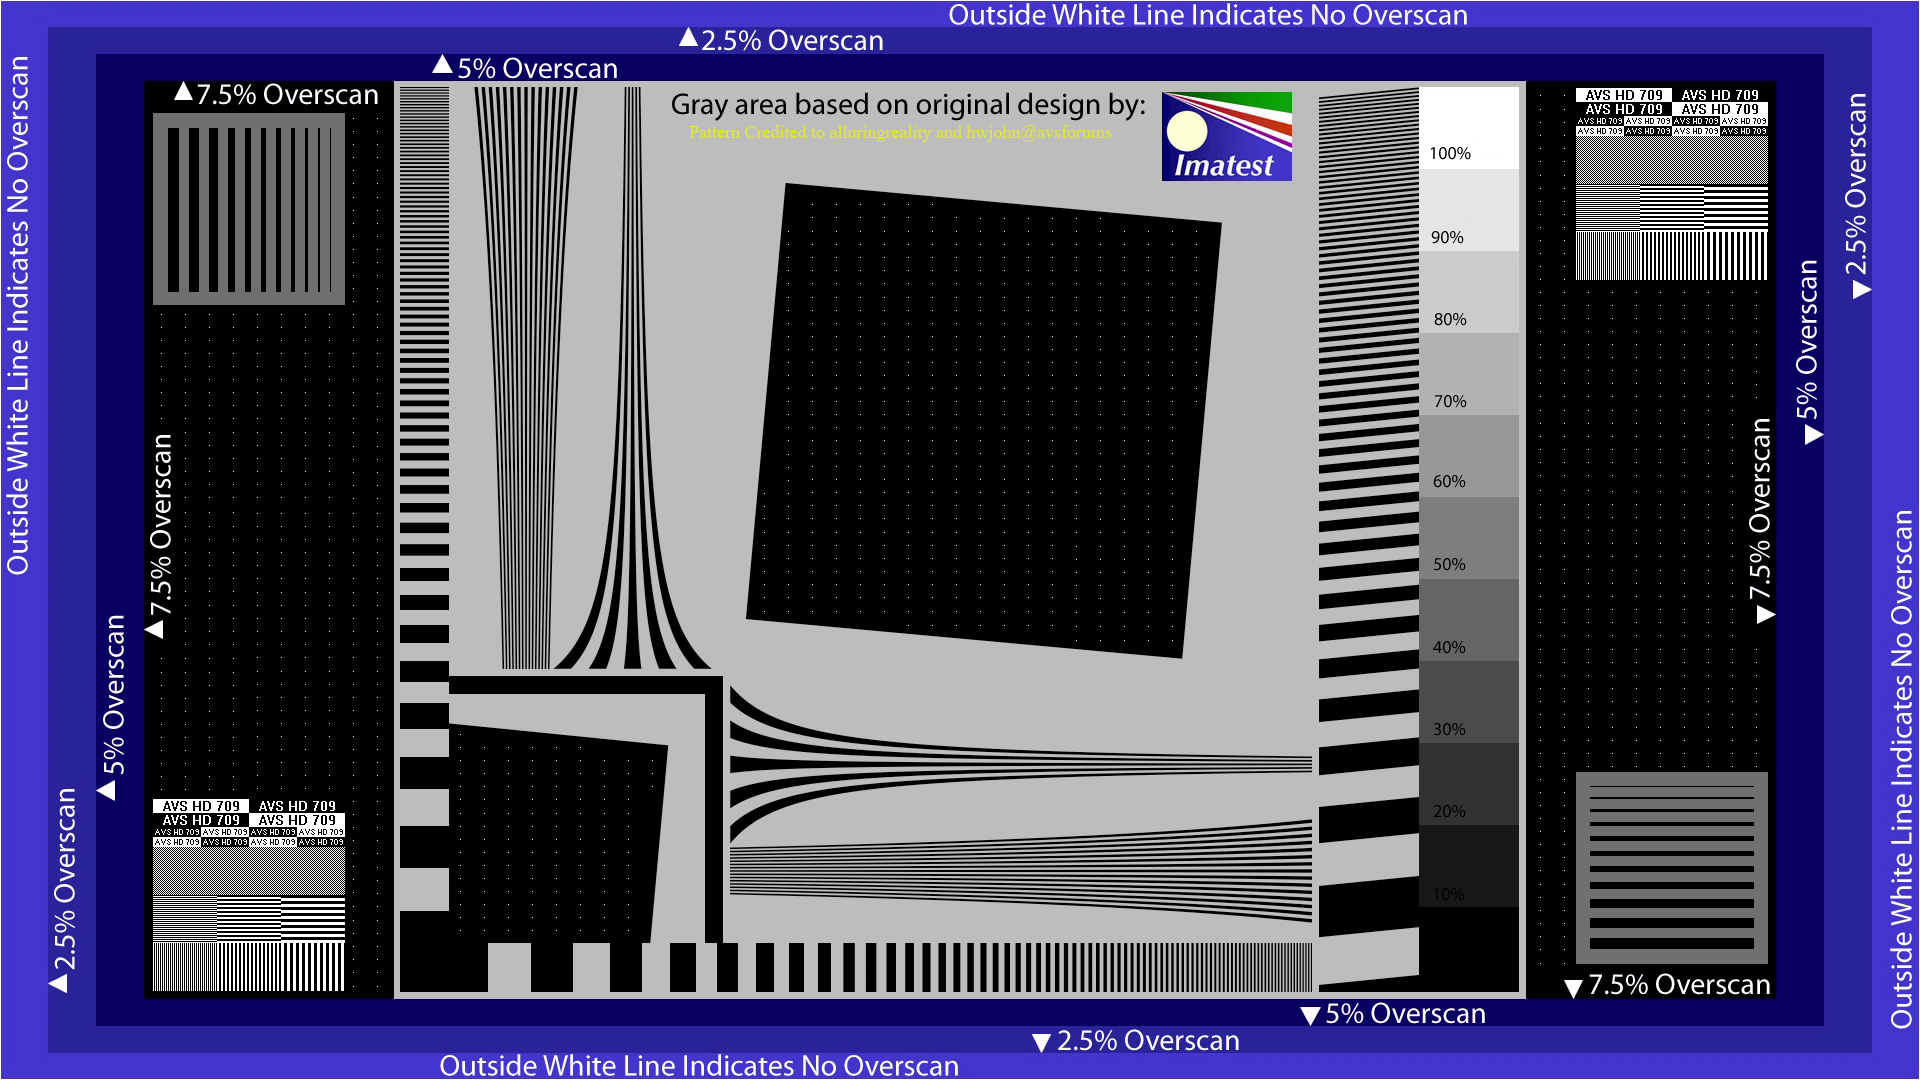
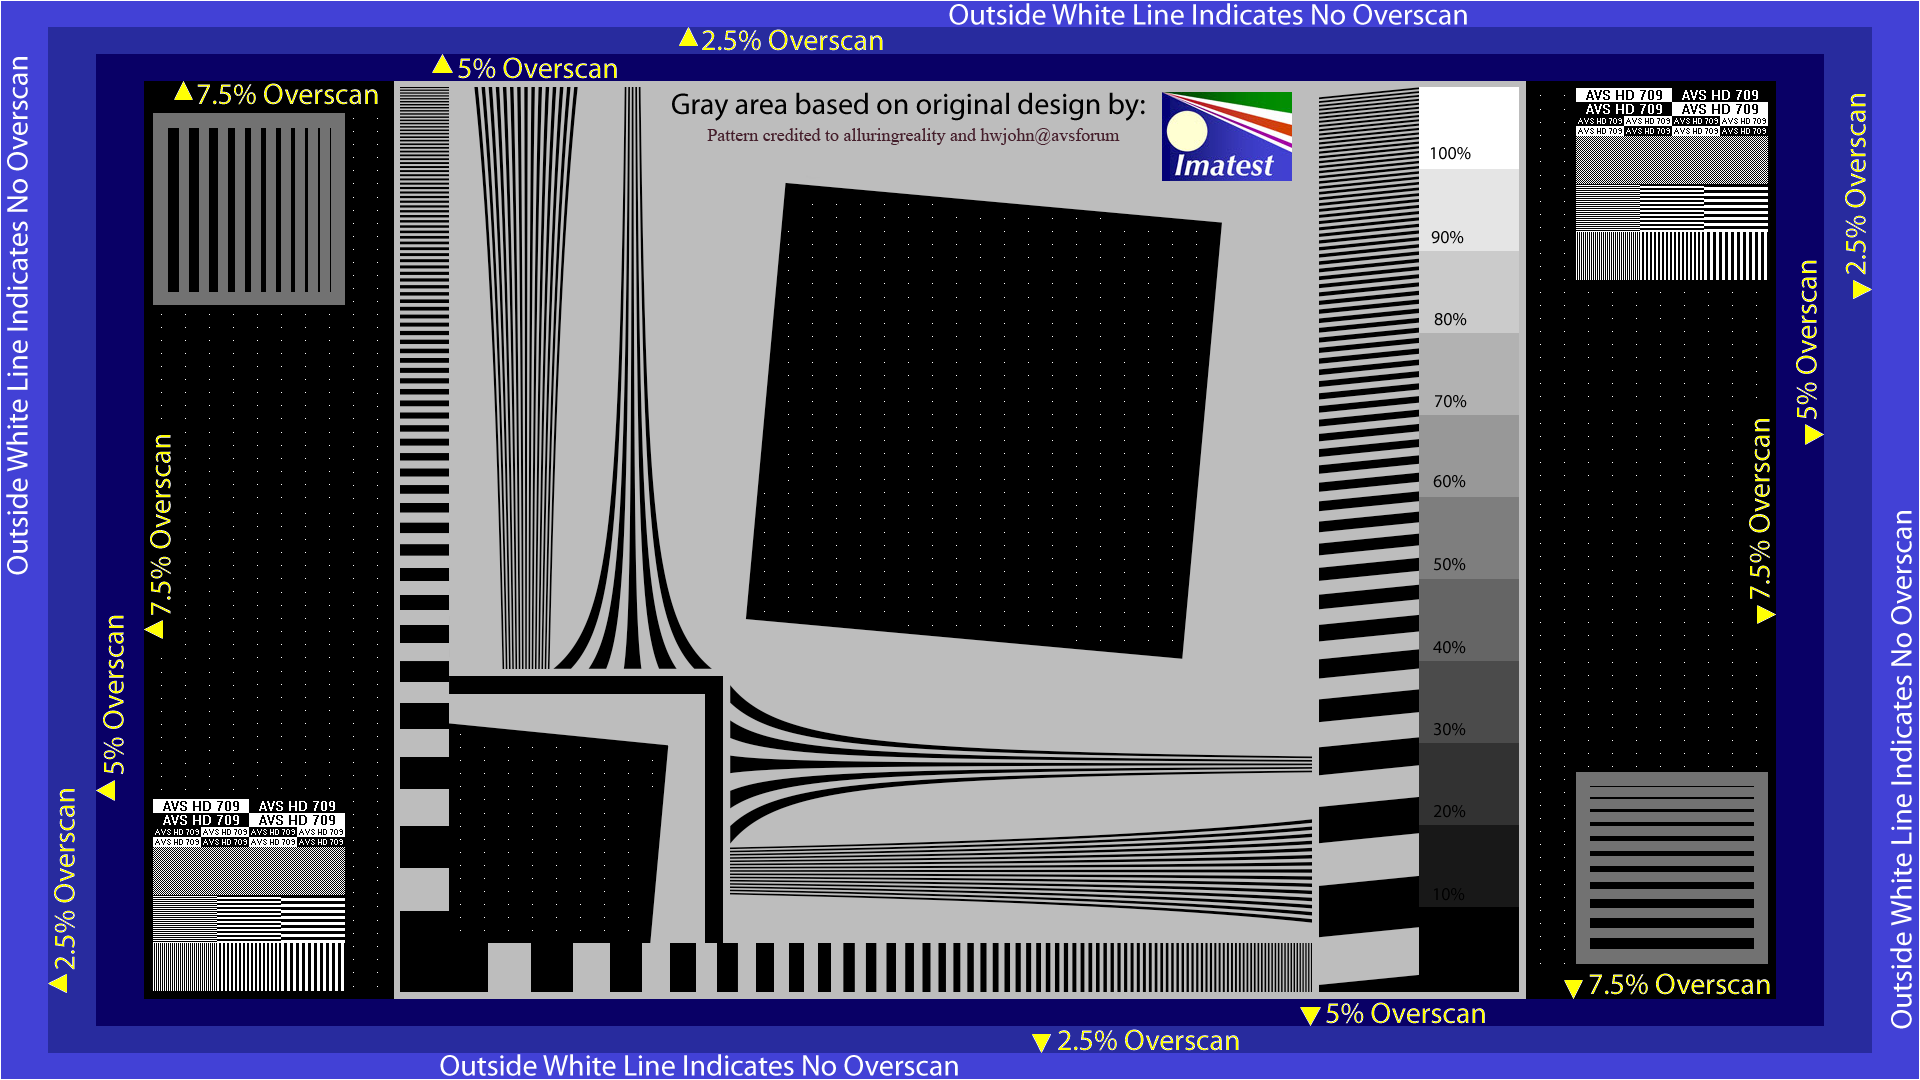
Update some patterns and add another plain gray gradient

diff --git a/datasetdoc.cpp b/datasetdoc.cpp
@@ -460,6 +460,7 @@ BEGIN_MESSAGE_MAP(CDataSetDoc, CDocument)
 	ON_COMMAND(IDM_PATTERN_ANIM_BLACK, OnPatternAnimBlack)
 	ON_COMMAND(IDM_PATTERN_ANIM_WHITE, OnPatternAnimWhite)
 	ON_COMMAND(IDM_PATTERN_GRADIENT, OnPatternGradient)
+	ON_COMMAND(IDM_PATTERN_GRADIENT2, OnPatternGradient2)
 	ON_COMMAND(IDM_PATTERN_LRAMP, OnPatternLramp)
 	ON_COMMAND(IDM_PATTERN_GRANGER, OnPatternGranger)
 	ON_COMMAND(IDM_PATTERN_TV, OnPatternTV)
@@ -2920,6 +2921,27 @@ void CDataSetDoc::OnPatternLramp()
 
 			m_pGenerator->Init();
 			m_pGenerator->DisplayLramp();
+
+			WaitKey();
+			
+			AfxGetMainWnd () -> EnableWindow ( TRUE );
+			m_pGenerator->Release();
+	}
+	else
+	{
+		GetColorApp()->InMeasureMessageBox( _S(IDS_CANNOTDISPLAYANIMATION), "On measure", MB_OK | MB_ICONEXCLAMATION );
+	}
+}
+
+void CDataSetDoc::OnPatternGradient2() 
+{
+
+	if ( m_pGenerator -> CanDisplayAnimatedPatterns() )
+	{
+			AfxGetMainWnd () -> EnableWindow ( FALSE );
+
+			m_pGenerator->Init();
+			m_pGenerator->DisplayGradient2();
 
 			WaitKey();
 			

diff --git a/Generators/Generator.cpp b/Generators/Generator.cpp
@@ -29,6 +29,8 @@
 //#include "madVRTestPattern.h"
 #include "madTPG.h"
 #include "GDIGenerator.h"
+//#include "../Tools/spectro/ccwin.h"
+//#include "../Tools/spectro/ccast/ccast.h"
 
 #ifdef _DEBUG
 #undef THIS_FILE
@@ -132,6 +134,9 @@ BOOL CGenerator::Init(UINT nbMeasure)
 	CString str;
 	str.LoadString(IDS_MANUALDVDGENERATOR_NAME);
 	BOOL madVR_Found;
+//	ccast_id **ids;
+//	ids = get_ccids();	
+	
 	if (Cgen.m_nDisplayMode == DISPLAY_madVR && m_name != str)
 	{
 		if (madVR_IsAvailable())
@@ -193,6 +198,11 @@ BOOL CGenerator::DisplayAnimatedWhite()
 }
 
 BOOL CGenerator::DisplayGradient()
+{
+	return TRUE;	  // need to be overriden
+}
+
+BOOL CGenerator::DisplayGradient2()
 {
 	return TRUE;	  // need to be overriden
 }

diff --git a/resource.h b/resource.h
@@ -769,6 +769,7 @@
 #define IDC_USEPIC                      1325
 #define IDR_PATTERN_TV                  1326
 #define IDR_PATTERN_TVv                 1327
+#define IDR_PATTERN_GRADIENT2            1328
 #define IDC_COLORTEMPHISTO_GRAPH        11003
 #define IDC_RGBHISTO_GRAPH              11101
 #define IDC_RGBHISTO_GRAPH2             11102
@@ -1006,6 +1007,7 @@
 #define IDM_PATTERN_CLIPL               33066
 #define IDM_PATTERN_CLIPH               33067
 #define IDM_PATTERN_TV                  33068
+#define IDM_PATTERN_GRADIENT2            33069
 #define IDS_LUMINANCEHISTOVIEW_NAME     41446
 #define IDS_COLORTEMPHISTOVIEW_NAME     41447
 #define IDS_RGBHISTOVIEW_NAME           41448

diff --git a/Generators/Generator.h b/Generators/Generator.h
@@ -94,6 +94,7 @@ public:
 	virtual BOOL DisplayAnimatedBlack();				// need to be overriden
 	virtual BOOL DisplayAnimatedWhite();				// need to be overriden
 	virtual BOOL DisplayGradient();				// need to be overriden
+	virtual BOOL DisplayGradient2();				// need to be overriden
 	virtual BOOL DisplayLramp();				// need to be overriden
 	virtual BOOL DisplayGranger();				// need to be overriden
 	virtual BOOL DisplaySpectrum();				// need to be overriden

diff --git a/Generators/FullScreenWindow.cpp b/Generators/FullScreenWindow.cpp
@@ -422,6 +422,14 @@ void CFullScreenWindow::DisplayLramp()
 	FreeLibrary(hPatterns);
 }
 
+void CFullScreenWindow::DisplayGradient2() 
+{
+	HMODULE hPatterns;
+	hPatterns = LoadLibrary(_T("CHCFR21_PATTERNS.dll"));
+	CFullScreenWindow::DisplayPatternPicture(hPatterns,IDR_PATTERN_GRADIENT2,TRUE);
+	FreeLibrary(hPatterns);
+}
+
 void CFullScreenWindow::DisplayGranger() 
 {
 	HMODULE hPatterns;

diff --git a/datasetdoc.h b/datasetdoc.h
@@ -198,6 +198,7 @@ protected:
 	afx_msg void OnPatternAnimBlack();
 	afx_msg void OnPatternAnimWhite();
 	afx_msg void OnPatternGradient();
+	afx_msg void OnPatternGradient2();
 	afx_msg void OnPatternLramp();
 	afx_msg void OnPatternGranger();
 	afx_msg void OnPatternTV();

diff --git a/Generators/GDIGenerator.h b/Generators/GDIGenerator.h
@@ -75,6 +75,7 @@ public:
 	virtual BOOL DisplayAnimatedBlack();
 	virtual BOOL DisplayAnimatedWhite();
 	virtual BOOL DisplayGradient();
+	virtual BOOL DisplayGradient2();
 	virtual BOOL DisplayLramp();
 	virtual BOOL DisplayGranger();
 	virtual BOOL DisplayTV();

diff --git a/Generators/GDIGenerator.cpp b/Generators/GDIGenerator.cpp
@@ -510,6 +510,12 @@ BOOL CGDIGenerator::DisplayGradient()
 	return TRUE;
 }
 
+BOOL CGDIGenerator::DisplayGradient2()
+{
+	m_displayWindow.DisplayGradient2();
+	return TRUE;
+}
+
 BOOL CGDIGenerator::DisplayLramp()
 {
 	m_displayWindow.DisplayLramp();

diff --git a/Generators/FullScreenWindow.h b/Generators/FullScreenWindow.h
@@ -113,6 +113,7 @@ public:
 	void DisplayAnimatedBlack();
 	void DisplayAnimatedWhite();
 	void DisplayGradient();
+	void DisplayGradient2();
 	void DisplayLramp();
 	void DisplayGranger();
 	void DisplayTV();
